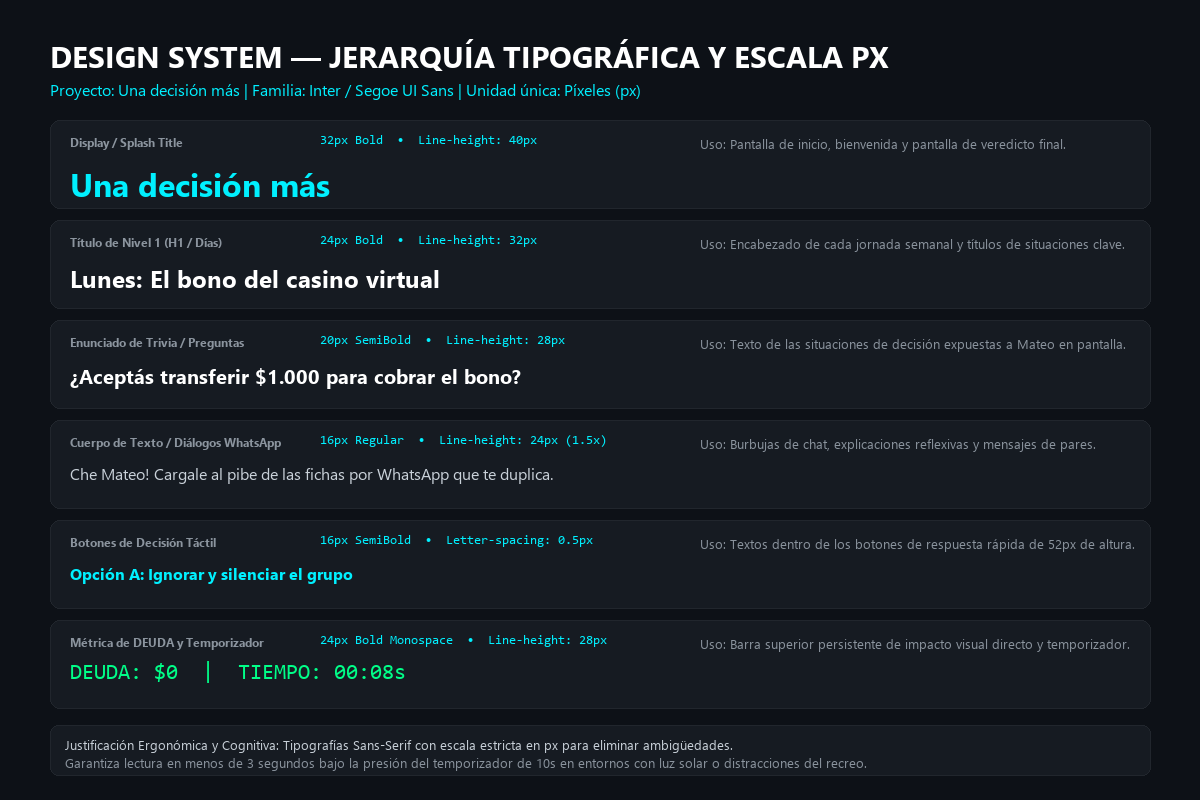
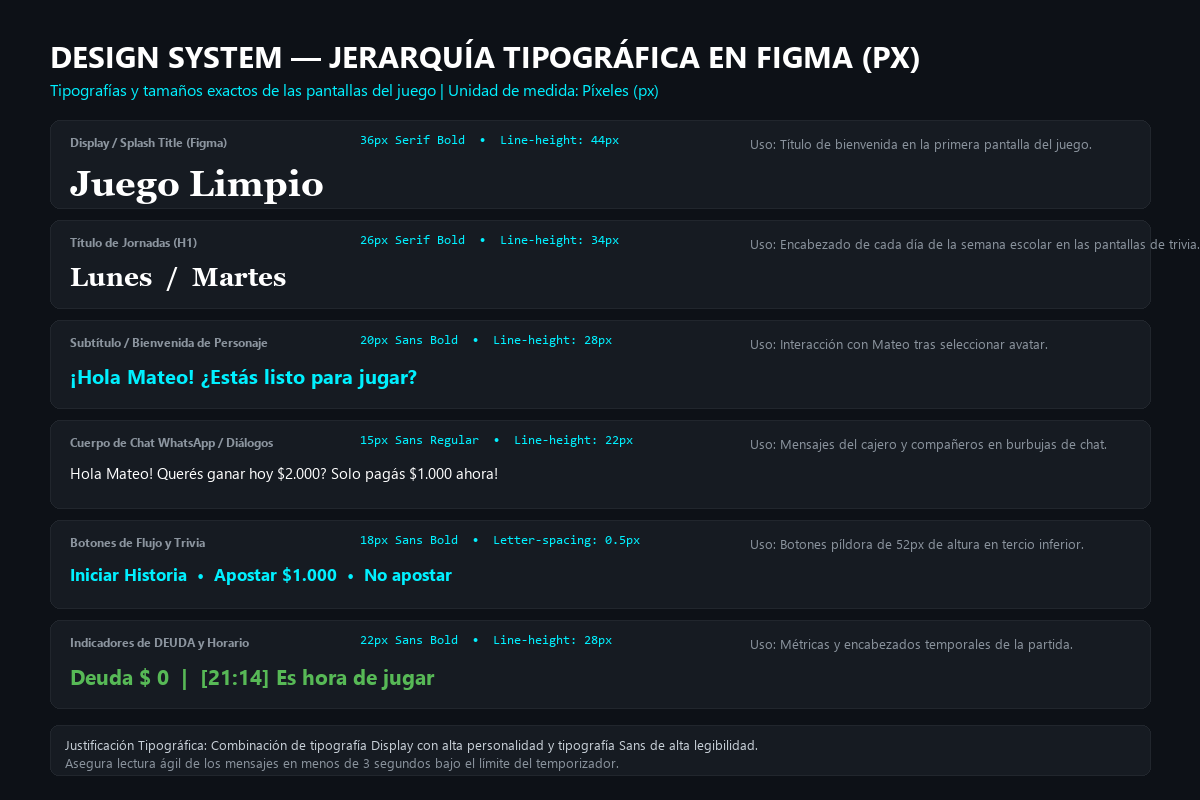
style: actualizar capturas reales de Figma, flujo de pantallas y botones píldora neón

diff --git a/README.md b/README.md
@@ -62,29 +62,38 @@ Ficha exhaustiva del usuario modelo **Mateo R. (15 años)**, sus hábitos de con
 
 ---
 
-### 2. Design System General y Layout Mobile
-Resumen integrado del sistema de diseño: principios de interfaz *Gamer Dark / Neon UI*, escala de tipografías, componentes interactivos y esquema ergonómico en pantalla móvil.
+### 2. Design System General y Flujo de Pantallas en Figma
+Resumen integrado del sistema de diseño y flujo real de pantallas diseñado en Figma para el juego *Una decisión más / Juego Limpio*:
 
 ![Design System](img/design_system.png)
 
+#### Flujo Continuo de Pantallas (Figma):
+1. **Splash / Identificación:** Pantalla de bienvenida con el título *"Juego Limpio"* y campo para ingresar el nombre/apodo.
+2. **Personalización de Avatar:** Selección táctil de 3 avatares con anillos luminosos Neón y botón *"Siguiente"*.
+3. **Bienvenida al Personaje:** Pantalla de saludo a Mateo (*"¡Hola Mateo! ¿Estás listo para jugar?"*) y botón *"Iniciar Historia"*.
+4. **Jornada Lunes (Trivia Contrarreloj):** Diálogo de WhatsApp del cajero clandestino, barra temporal interactiva y botones de respuesta (*"Apostar $1.000"* / *"No apostar"*).
+5. **Veredicto y Acompañamiento:** Visualización de deuda (`Deuda $ 0` / `Deuda $ 1.000`) y acceso directo a canales oficiales de orientación (Boti WhatsApp +54 9 11 5050-0147 y Consumo Digital PBA 0800-222-5462).
+
+![Flujo de Pantallas](img/flujo_pantallas.png)
+
 ---
 
-### 3. Paleta de Colores y Códigos RGB
-Especificación técnica de la paleta cromática con valores HEX y RGB, contraste WCAG 2.1 AAA y justificación contextual de uso.
+### 3. Paleta de Colores y Códigos RGB (Figma)
+Especificación técnica de la paleta cromática real extraída del tablero de Figma con valores HEX y RGB, contraste WCAG 2.1 AAA y justificación contextual de uso.
 
 ![Colores y Códigos RGB](img/colores_rgb.png)
 
 | Color / Token | Valor HEX | Valor RGB | Función y Uso en la Interfaz |
 | :--- | :--- | :--- | :--- |
-| **Fondo Principal (Dark Slate)** | `#0D1117` | `RGB(13, 17, 23)` | Canvas base. Reduce la fatiga visual nocturna en la habitación de Mateo y refuerza la estética gamer. |
-| **Superficie / Cards** | `#161B22` | `RGB(22, 27, 34)` | Contenedores de diálogos de WhatsApp, tarjetas de situaciones y modales. |
-| **Contenedor Secundario** | `#21262D` | `RGB(33, 38, 45)` | Bordes estructurales, divisores y botones secundarios inactivos. |
-| **Neón Cyan (Acción Principal)** | `#00F0FF` | `RGB(0, 240, 255)` | Botones de decisión táctil, opciones interactivas y acentos de alto contraste a plena luz solar. |
-| **Neón Violet (Identidad Gamer)** | `#8A2BE2` | `RGB(138, 43, 226)` | Personalización de avatar, barra de progreso interactivo y acentos eSports. |
-| **Neón Coral (Alerta / Deuda)** | `#FF3366` | `RGB(255, 51, 102)` | Indicador crítico de `DEUDA`, opciones erróneas y parpadeo de los últimos 3 segundos del temporizador. |
-| **Neón Esmeralda (Éxito / Seguro)** | `#00FF88` | `RGB(0, 255, 136)` | Estado seguro (`DEUDA: $0`), selección correcta y pantalla de victoria dominical. |
-| **Texto Primario (High Contrast)** | `#FFFFFF` | `RGB(255, 255, 255)` | Títulos, enunciados de trivia y texto de opciones (Ratio > 12:1 WCAG AAA). |
-| **Texto Secundario (Muted Silver)**| `#94A3B8` | `RGB(148, 163, 184)` | Metadatos, timestamps de mensajes y etiquetas auxiliares sin recargar la pantalla. |
+| **Fondo General (Dark Slate)** | `#0D1117` | `RGB(13, 17, 23)` | Canvas base de la app. Reduce la fatiga visual nocturna en la habitación de Mateo y refuerza la atmósfera gamer. |
+| **Burbuja WhatsApp / Cards** | `#24142D` | `RGB(36, 20, 45)` | Fondo de mensajes de chat y tarjetas de situaciones, con borde magenta tenue (`#8E1E5C`). |
+| **Neón Fucsia / Magenta (Gradiente)** | `#E91E63` | `RGB(233, 30, 99)` | Inicio del gradiente en bordes de botones píldora (*"Siguiente"*, *"Iniciar Historia"*) y halo de avatar. |
+| **Neón Cyan (Gradiente)** | `#00E5FF` | `RGB(0, 229, 255)` | Fin del gradiente en botones, acentos interactivos y resplandor de alto contraste solar. |
+| **Verde Éxito (Billete / Deuda $0)** | `#57B956` | `RGB(87, 185, 86)` | Ilustración del billete de dinero, estado seguro `Deuda $ 0` y tramo seguro del temporizador. |
+| **Alerta / Tiempo Crítico** | `#FF3B30` | `RGB(255, 59, 48)` | Tramo final de urgencia en la barra de 10s y penalización en caso de selección errónea. |
+| **Texto Primario (High Contrast)** | `#FFFFFF` | `RGB(255, 255, 255)` | Títulos, diálogos y texto de botones (Ratio > 12:1 WCAG AAA). |
+| **Texto Secundario (Gris Claro)** | `#A0AEC0` | `RGB(160, 174, 192)` | Subtítulos (*"¿Cómo te llamás?"*), metadatos y etiquetas auxiliares. |
+| **Acento Violeta / Púrpura** | `#7B2CBF` | `RGB(123, 44, 191)` | Fondo atmosférico en pantallas de selección de avatar y bienvenida. |
 
 ---
 
@@ -93,24 +102,24 @@ Escala tipográfica unificada en `px` para garantizar consistencia entre platafo
 
 ![Tipografías](img/tipografias.png)
 
-* **Display / Splash Title (32px Bold, line-height 40px):** Pantalla de inicio, bienvenida y evaluación final.
-* **Título H1 / Días de Semana (24px Bold, line-height 32px):** Encabezados de jornada (Lunes a Domingo) y situaciones de impacto.
-* **Enunciado de Trivia (20px SemiBold, line-height 28px):** Preguntas y encrucijadas decisionales expuestas a Mateo.
-* **Cuerpo / Diálogos WhatsApp (16px Regular, line-height 24px):** Mensajes en formato chat de compañeros y descripciones reflexivas.
-* **Botones de Decisión Táctil (16px SemiBold, letter-spacing 0.5px):** Opciones de respuesta en botones de 52px de alto.
-* **Métrica de DEUDA y Temporizador (22px Bold Monospace):** Panel numérico superior de visualización instantánea.
+* **Display / Splash Title (36px Serif Bold, line-height 44px):** Título principal del juego (*"Juego Limpio"*) en pantalla splash.
+* **Título H1 / Días de Semana (26px Serif Bold, line-height 34px):** Encabezados de jornada (*"Lunes"*, *"Martes"*) en las pantallas de trivia.
+* **Subtítulo / Bienvenida (20px Sans Bold, line-height 28px):** Enunciados e interacción (*"¡Hola Mateo! ¿Estás listo para jugar?"*).
+* **Cuerpo / Diálogos WhatsApp (15px Sans Regular, line-height 22px):** Mensajes en formato chat del cajero y compañeros en pantalla.
+* **Botones de Flujo y Decisión (18px Sans Bold, letter-spacing 0.5px):** Textos dentro de los botones píldora (*"Iniciar Historia"*, *"Apostar $1.000"*, *"No apostar"*).
+* **Indicadores Numéricos y Horario (22px Sans Bold):** Panel superior de deuda (*"Deuda $ 0"*) y reloj contextual (*"[21:14]"*).
 
 ---
 
 ### 5. Botones y Ergonomía del Pulgar (Thumb Zone)
-Especificación de estados táctiles de botones y análisis ergonómico para uso con una sola mano.
+Especificación de los componentes de botones reales diseñados en Figma, sus estados y análisis ergonómico para uso con una sola mano.
 
 ![Botones](img/botones.png)
 
-* **Altura Táctil:** 52px (supera la recomendación mínima de 48px de accesibilidad para móviles).
-* **Ubicación:** Concentrados en el tercio inferior de la pantalla (*Thumb Zone*), optimizados para manipulación con el pulgar mientras el usuario viaja en transporte público o camina por la escuela.
-* **Separación:** Espaciado vertical de 12px entre opciones para evitar pulsaciones erróneas involuntarias (*fat-finger effect*) durante los 10 segundos de la trivia.
-* **Estados Interactivos:** Normal (borde neón sutil), Hover/Focus (resplandor cian), Pressed (relleno sólido contrastado) y Deshabilitado (opacidad atenuada).
+* **Forma y Estilo:** Formato píldora (*border-radius: 9999px*) con borde lineal de 2px en degradé Neón Fucsia-Cyan (`#E91E63` a `#00E5FF`) y fondo oscuro translúcido.
+* **Altura Táctil:** 52px (supera la recomendación mínima de 48px de accesibilidad para móviles), asegurando una pulsación cómoda sin errores.
+* **Ubicación:** Concentrados en el tercio inferior de la pantalla (*Thumb Zone*), optimizados para manipulación con el pulgar mientras el usuario viaja en colectivo o camina por la escuela.
+* **Separación:** Espaciado vertical de 14px entre opciones de decisión (*"Apostar $1.000"* vs. *"No apostar"*) para prevenir el efecto *fat-finger* durante la cuenta regresiva de 10 segundos.
 
 ---
 
@@ -119,12 +128,13 @@ Especificación de estados táctiles de botones y análisis ergonómico para uso
 ```text
 ├── README.md              # Documentación central, integrantes, roles, figma y galería
 ├── relato.md              # Relato completo de la partida y matriz de trivia semanal
-└── img/                   # Capturas y especificaciones visuales requeridas
+└── img/                   # Capturas y especificaciones visuales del proyecto
     ├── persona_usuaria.png # Ficha oficial de Mateo R. (Persona Usuaria)
     ├── design_system.png   # Panel maestro de Design System y layout mobile
-    ├── colores_rgb.png     # Paleta con códigos HEX y RGB + Justificación
+    ├── flujo_pantallas.png # Flujo de pantallas reales diseñadas en Figma
+    ├── colores_rgb.png     # Paleta oficial con códigos HEX y RGB (Figma)
     ├── tipografias.png     # Escala y jerarquía tipográfica en píxeles (px)
-    └── botones.png         # Componentes de botones, estados y ergonomía del pulgar
+    └── botones.png         # Componentes reales de botones píldora y ergonomía
 ```
 
 ---
